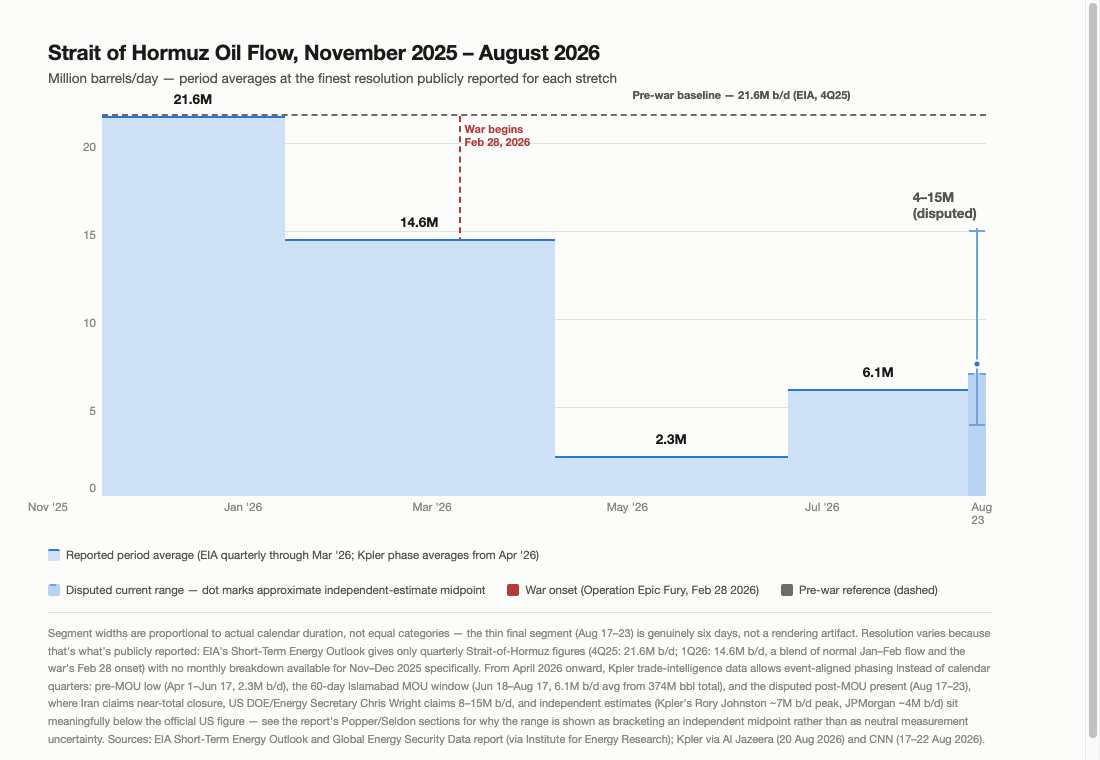
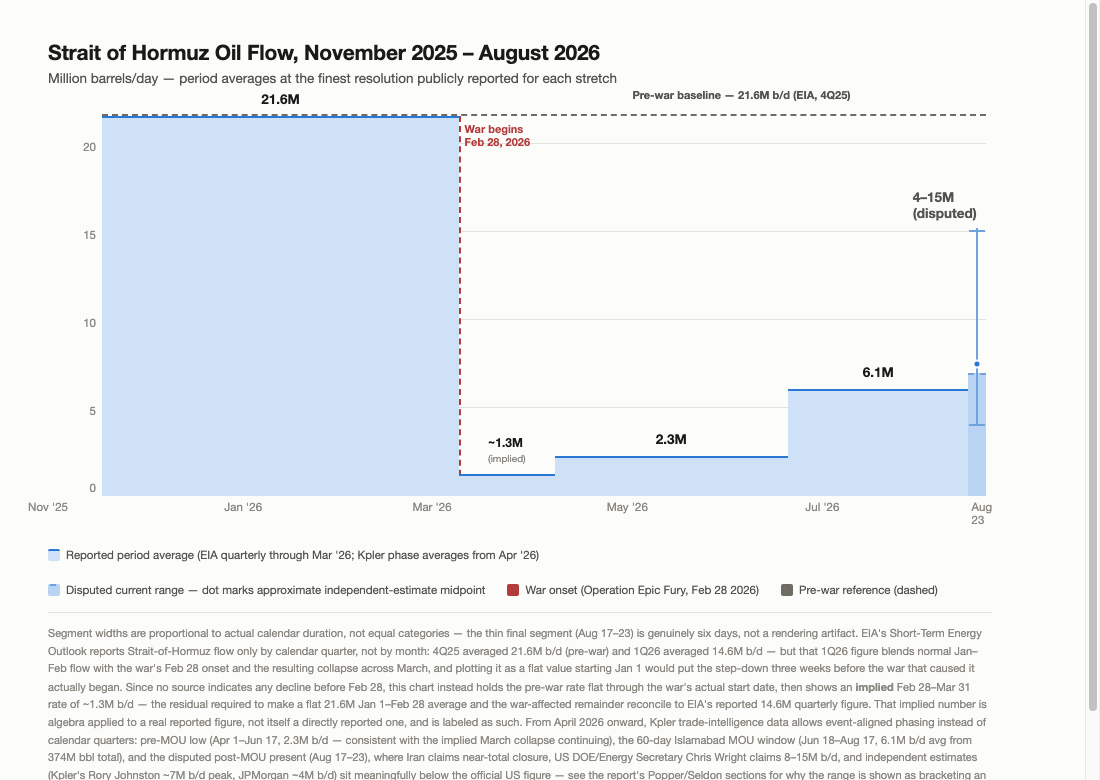
2026-08-23: Fix false pre-war decline in oil-flow chart — Strait of Hormuz Control Assessment

diff --git a/reports/2026-08-23-strait-of-hormuz-control-assessment.md b/reports/2026-08-23-strait-of-hormuz-control-assessment.md
@@ -163,7 +163,9 @@ The oil-flow trajectory is different: it's a story about *change over time*, whe
 
 <img src="https://raw.githubusercontent.com/raceBannon99/The-Nexus/main/reports/images/2026-08-23-strait-of-hormuz-control-assessment/oil-flow-timeseries.png" width="760">
 
-Segment widths are proportional to actual calendar duration, not equal categories — the final segment (Aug 17–23) is genuinely six days wide, which is itself an honest signal that the most-quoted current figures rest on the shortest, least-settled window in the whole series. Resolution varies across the chart because that's what's actually publicly reported: EIA's Short-Term Energy Outlook and its new Global Energy Security Data report give only quarterly Strait-of-Hormuz figures before the war (4Q25: 21.6 million barrels/day, the pre-war baseline — Nov–Dec 2025 specifically isn't broken out any finer) and for its opening month (1Q26: 14.6 million barrels/day, a blend of normal Jan–Feb flow and the Feb 28 onset, marked on the chart with a vertical line). From April 2026 onward, Kpler trade-intelligence data allows event-aligned phasing instead of calendar quarters — the same pre-MOU low (2.3M), Islamabad MOU window (6.1M), and disputed post-MOU present (4–15M range, independent-estimate midpoint marked) used in the original version. The disputed range still reads as two self-interested claims (Iran's near-zero, the US's 8–15M) bracketing a smaller independent estimate, not as neutral measurement uncertainty — consistent with Popper's and Seldon's resolution above.
+Segment widths are proportional to actual calendar duration, not equal categories — the final segment (Aug 17–23) is genuinely six days wide, which is itself an honest signal that the most-quoted current figures rest on the shortest, least-settled window in the whole series. Resolution varies across the chart because that's what's actually publicly reported: EIA's Short-Term Energy Outlook and its new Global Energy Security Data report give only quarterly Strait-of-Hormuz figures before the war (4Q25: 21.6 million barrels/day, the pre-war baseline — Nov–Dec 2025 specifically isn't broken out any finer) and for its opening quarter (1Q26: 14.6 million barrels/day). From April 2026 onward, Kpler trade-intelligence data allows event-aligned phasing instead of calendar quarters — the same pre-MOU low (2.3M), Islamabad MOU window (6.1M), and disputed post-MOU present (4–15M range, independent-estimate midpoint marked) used in the original version. The disputed range still reads as two self-interested claims (Iran's near-zero, the US's 8–15M) bracketing a smaller independent estimate, not as neutral measurement uncertainty — consistent with Popper's and Seldon's resolution above.
+
+**Corrected same day, second pass**, after Rick asked why the chart showed a 7-million-barrel drop between November and January — it didn't, and the chart was wrong to imply it did. 1Q26's 14.6M figure is a *whole-quarter* average blending normal Jan–Feb flow with the war's actual Feb 28 onset and March's collapse; plotting it as a flat value starting Jan 1 put the step-down three weeks before the war that caused it began. No source indicates any decline before Feb 28, so the chart now holds the pre-war 21.6M rate flat through the war's real start date, then shows an **implied** Feb 28–Mar 31 rate of ~1.3M barrels/day — algebra applied to EIA's reported 14.6M quarterly figure (assuming a flat 21.6M for the 59 pre-war days of the quarter, the remaining 31 days must average ~1.3M to reconcile), not itself a directly reported number, and labeled as such on the chart. This is consistent with the following segment (2.3M, Apr 1–Jun 17) and with contemporaneous reporting that traffic "dropped near zero soon after hostilities began."
 
 No update to `Intelligence Reports/Adversary Tracking Report.md` is needed (per Ryan's note above — this isn't a cyber-campaign report). Passing to Turing.
 
